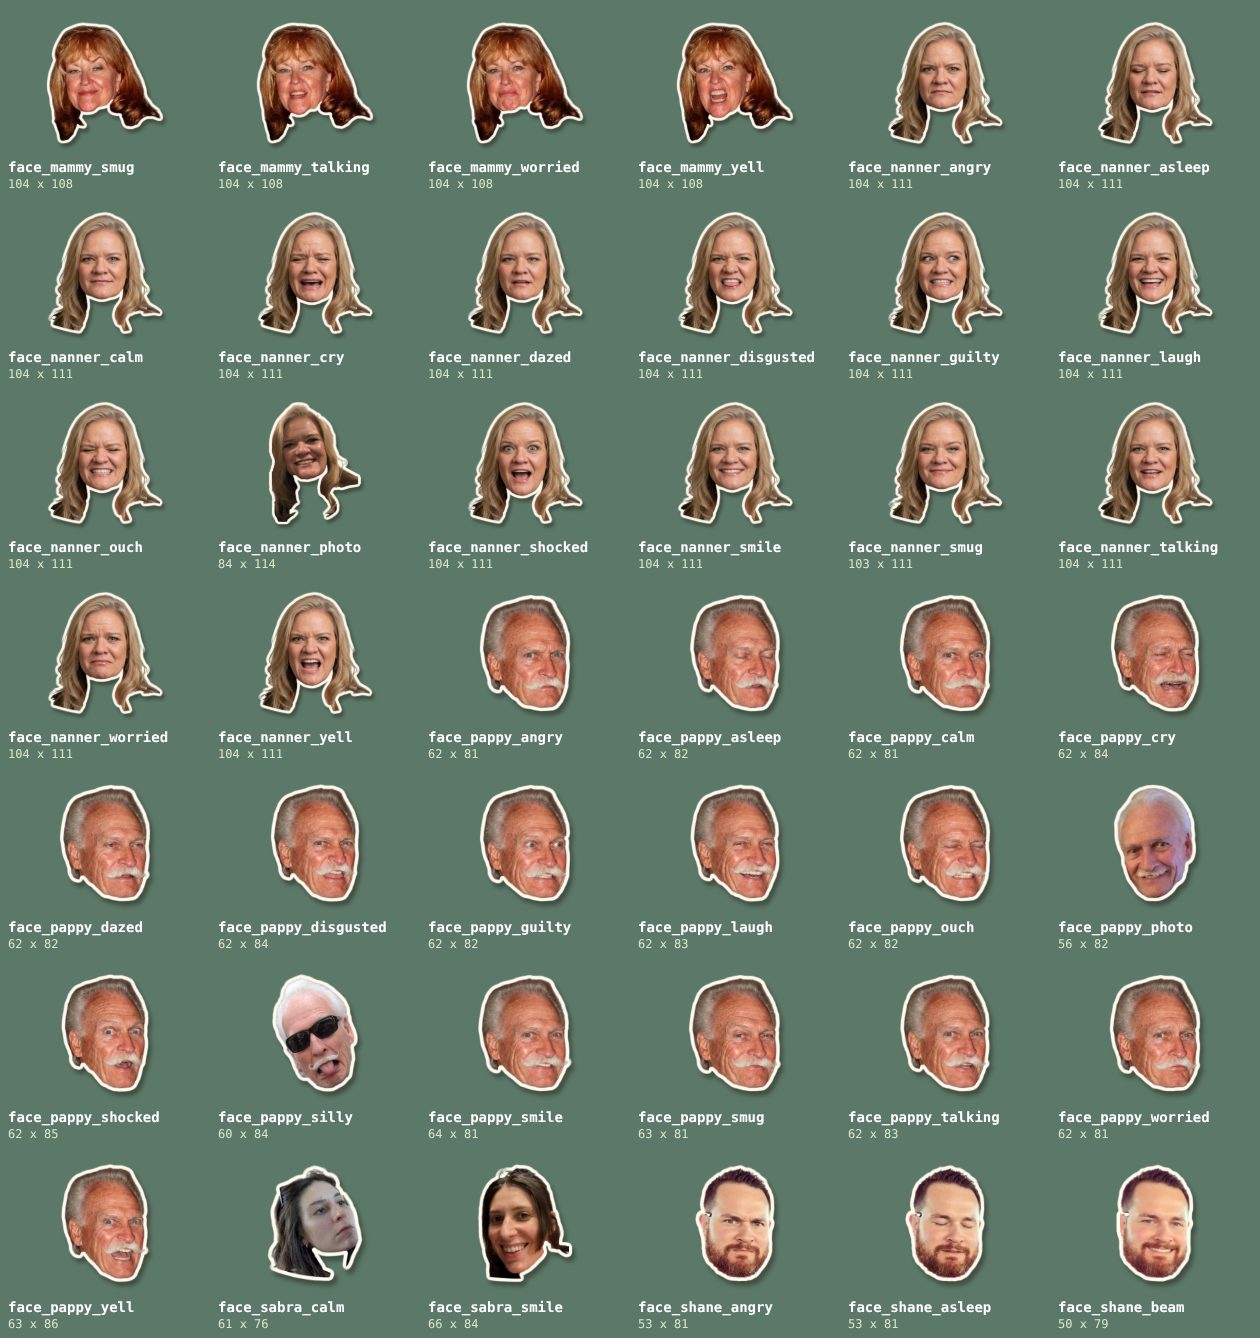
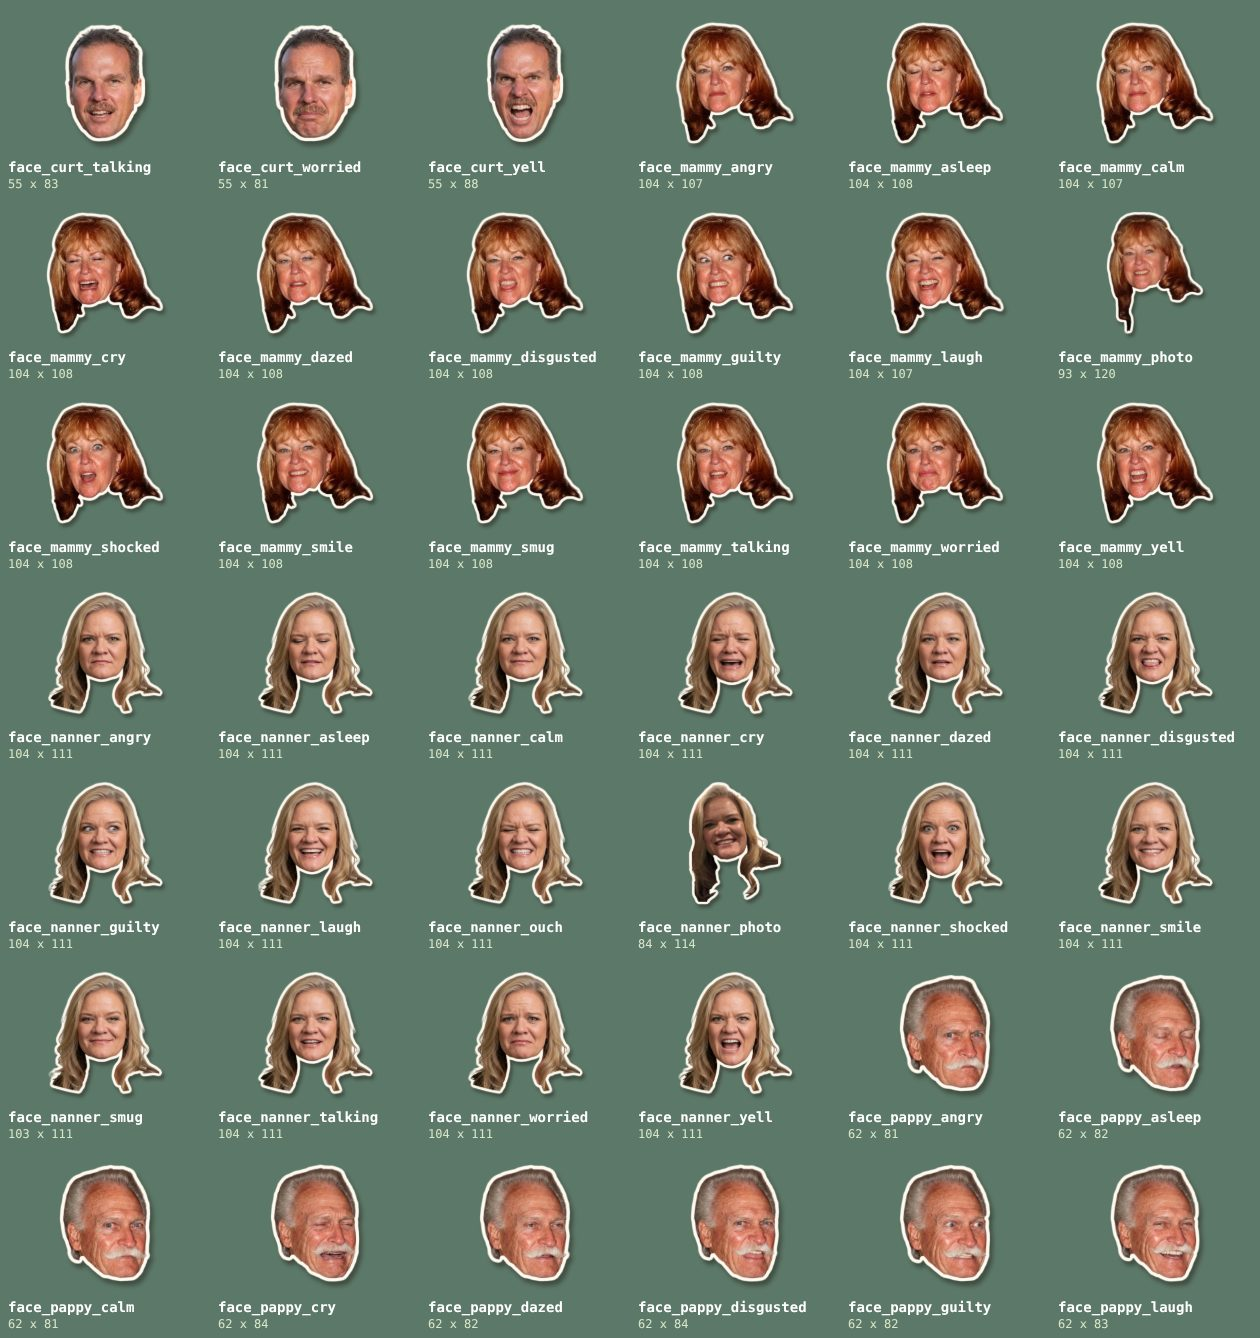
Sabra and Curt get their sets: everybody with a photo has one now
The owner's portraits and edits of them, from the Full Expression Repo in
his Drive, cut and put in everybody's faces.

- Sabra: her portrait (her smile) and thirteen edits; her calm is still the
  real photo on the train. Wisps of hair past her jaw are trimmed at the
  chin for the whole batch, and three looks Adobe left the ear out of borrow
  it from her angry.
- Curt: his portrait and thirteen edits. The owner made it from the wedding
  photo, so the set is Curt years younger, with a moustache; his laugh is
  still the real photo of him now.
- The faces cut from their real photos, which were their smiles, are kept as
  each one's own "photo".

204 faces now (176 before), 15 of the fifteen for everybody but Bill (no
laugh) and Mammy (no ouch). Picture fingerprints: 28 new, those two people's
four earlier faces a different size, nothing else touched. The whole tape
plays with no errors.

Claude-Session: https://claude.ai/code/session_019b7mfLR7ticr216Qk7ssWT

diff --git a/src/data/cast.ts b/src/data/cast.ts
@@ -201,11 +201,39 @@ export const CAST: Record<string, Record<string, CastFace>> = {
     photo: { file: 'face-nanner-photo.png', tall: 1.419, chin: [0.400, 0.639] },
   },
   curt: {
-    smile: { file: 'face-curt-smile.png', tall: 1.017, chin: [0.479, 0.991] },
-    laugh: { file: 'face-curt-laugh.png', tall: 0.953, chin: [0.491, 0.999] },
+    calm: { file: 'face-curt-calm.png', tall: 1.011, chin: [0.452, 0.994] },
+    talking: { file: 'face-curt-talking.png', tall: 1.036, chin: [0.452, 0.970] },
+    smile: { file: 'face-curt-smile.png', tall: 1.019, chin: [0.453, 0.985] },
+    laugh: { file: 'face-curt-laugh.png', tall: 1.014, chin: [0.491, 0.999] },
+    smug: { file: 'face-curt-smug.png', tall: 1.011, chin: [0.452, 0.993] },
+    angry: { file: 'face-curt-angry.png', tall: 1.017, chin: [0.451, 0.987] },
+    yell: { file: 'face-curt-yell.png', tall: 1.094, chin: [0.452, 0.917] },
+    shocked: { file: 'face-curt-shocked.png', tall: 1.083, chin: [0.452, 0.928] },
+    guilty: { file: 'face-curt-guilty.png', tall: 1.019, chin: [0.452, 0.985] },
+    worried: { file: 'face-curt-worried.png', tall: 1.011, chin: [0.452, 0.994] },
+    cry: { file: 'face-curt-cry.png', tall: 1.056, chin: [0.452, 0.953] },
+    ouch: { file: 'face-curt-ouch.png', tall: 1.022, chin: [0.452, 0.984] },
+    dazed: { file: 'face-curt-dazed.png', tall: 1.036, chin: [0.452, 0.970] },
+    disgusted: { file: 'face-curt-disgusted.png', tall: 1.058, chin: [0.452, 0.949] },
+    asleep: { file: 'face-curt-asleep.png', tall: 1.025, chin: [0.451, 0.981] },
+    photo: { file: 'face-curt-photo.png', tall: 0.997, chin: [0.479, 0.991] },
   },
   sabra: {
-    calm: { file: 'face-sabra-calm.png', tall: 0.947, chin: [0.693, 0.768] },
-    smile: { file: 'face-sabra-smile.png', tall: 1.056, chin: [0.402, 0.950] },
+    calm: { file: 'face-sabra-calm.png', tall: 1.267, chin: [0.693, 0.768] },
+    talking: { file: 'face-sabra-talking.png', tall: 1.036, chin: [0.488, 0.971] },
+    smile: { file: 'face-sabra-smile.png', tall: 1.033, chin: [0.488, 0.971] },
+    laugh: { file: 'face-sabra-laugh.png', tall: 1.036, chin: [0.487, 0.969] },
+    smug: { file: 'face-sabra-smug.png', tall: 1.036, chin: [0.488, 0.971] },
+    angry: { file: 'face-sabra-angry.png', tall: 1.036, chin: [0.487, 0.971] },
+    yell: { file: 'face-sabra-yell.png', tall: 1.061, chin: [0.496, 0.948] },
+    shocked: { file: 'face-sabra-shocked.png', tall: 1.061, chin: [0.487, 0.948] },
+    guilty: { file: 'face-sabra-guilty.png', tall: 1.036, chin: [0.488, 0.971] },
+    worried: { file: 'face-sabra-worried.png', tall: 1.036, chin: [0.488, 0.971] },
+    cry: { file: 'face-sabra-cry.png', tall: 1.039, chin: [0.487, 0.968] },
+    ouch: { file: 'face-sabra-ouch.png', tall: 1.036, chin: [0.494, 0.971] },
+    dazed: { file: 'face-sabra-dazed.png', tall: 1.036, chin: [0.488, 0.971] },
+    disgusted: { file: 'face-sabra-disgusted.png', tall: 1.036, chin: [0.495, 0.971] },
+    asleep: { file: 'face-sabra-asleep.png', tall: 1.036, chin: [0.487, 0.971] },
+    photo: { file: 'face-sabra-photo.png', tall: 1.119, chin: [0.402, 0.950] },
   },
 };

diff --git a/tools/make_cast.py b/tools/make_cast.py
@@ -120,8 +120,8 @@ PHOTOS = {
     "mammy": {"photo": {"size": 0.9}},
     "pappy": {"photo": {"seal": 0.03, "size": 0.9}, "silly": {"seal": 0.03, "size": 0.9}},
     "nanner": {"photo": {"size": 0.87}},
-    "curt": {"smile": {"base": True, "seal": 0.03}, "laugh": {"seal": 0.03}},
-    "sabra": {"smile": {"base": True, "seal": 0.03, "below": 0.05}, "calm": {"seal": 0.04, "below": 0.3}},
+    "curt": {"photo": {"seal": 0.03, "size": 1.03}, "laugh": {"seal": 0.03, "size": 1.12}},
+    "sabra": {"photo": {"seal": 0.03, "below": 0.05, "size": 0.95}, "calm": {"seal": 0.04, "below": 0.3, "size": 1.2}},
 }
 
 # What every look in a person's batch needs, where the portrait they are all edits of needs it
@@ -130,12 +130,14 @@ PHOTOS = {
 # runs down over her shoulders and ends in thin tails where her dress begins. Christian's and
 # Branson's edits are of photos in which the head is tipped and turned a little (the same far
 # eyebrow); Shorty's are of one her hair runs out of, as her photo's own face is trimmed.
+# Sabra's hair is tied back, and wisps of it hang down past her jaw on both sides.
 SETS = {
     "pappy": {"seal": 0.055, "turn": 10},
     "nanner": {"below": 0.4},
     "christian": {"seal": 0.05, "turn": 10},
     "branson": {"seal": 0.06, "turn": -6},
     "shorty": {"below": 0.27},
+    "sabra": {"below": 0.05},
 }
 
 # A look in a batch whose selection Adobe left the hair and the ears out of ("Face, Beard" where
@@ -144,6 +146,7 @@ SETS = {
 BORROW = {
     "branson": {"smug": "calm", "smile": "calm"},
     "shorty": {"guilty": "calm"},
+    "sabra": {"smile": "angry", "laugh": "angry", "shocked": "angry"},
 }
 
 # A look whose head is this near the usual place and size in its picture has the same framing.

diff --git a/tools/test/every_face.py b/tools/test/every_face.py
@@ -40,6 +40,8 @@ OWN = {
     "pappy": {"photo": "a real photo: a closed-mouth smile", "silly": "tongue out, in his sunglasses"},
     "nanner": {"photo": "the real photo her set was made from"},
     "shorty": {"pout": "a pout"},
+    "curt": {"photo": "a real photo: as he is now, smiling"},
+    "sabra": {"photo": "a real photo: smiling, in the restaurant"},
     "christian": {"gentle": "a gentle smile (2021)", "yell2": "another yell (the green T-shirt)", "dazed2": "dazed again (the green T-shirt)",
                   "worried2": "a nervous grin (the green T-shirt)"},
     "bill": {"inhale": "the breath in", "hold": "holding his breath", "sideeye": "side-eye (another photo)", "glare": "glaring down (another photo)"},

diff --git a/docs/characters.md b/docs/characters.md
@@ -144,12 +144,12 @@ name of its own from the start, and is asked for like any other:
 | Christian | `christian` | 15 (his calm, smile and laugh are real photos) | | `gentle` (a gentle smile, 2021), and three made from the photo his smile is: `yell2`, `dazed2`, `worried2` (a nervous grin) |
 | Branson | `branson` | 15 (his laugh is a real photo) | | |
 | Shorty | `shorty` | 15 (her smile is the photo itself) | | `pout` |
-| Curt | `curt` | 2: smile, laugh | the other thirteen | |
-| Sabra | `sabra` | 2: calm, smile | the other thirteen | |
+| Curt | `curt` | 15 (his laugh is a real photo of him as he is now; the rest are him at his wedding, years younger, with a moustache) | | `photo` (as he is now, smiling, on the rooftop) |
+| Sabra | `sabra` | 15 (her calm is a real photo, on the train, looking away) | | `photo` (smiling, in the restaurant) |
 
-Curt's and Sabra's faces are real photos, used as they are (the next section
-but one lists every photo and what became of it). Their sets fill up as the
-looks nobody was photographed with are generated. When a person's
+Everybody on the list has a set now. A face that is a real photo, used as it
+is, is listed in the next section but one, with every photo and what became
+of it. When a person's
 generated set comes, its "Default" is their smile, and the face cut from the
 real photo is kept as their `photo`.
 
@@ -215,6 +215,14 @@ for):
   was his smug. His dazed came as a small picture blown up, and is soft.
   Shorty's hair runs out of her photo, and so out of every edit: all are
   trimmed under the chin along one line, as her smile was.
+- **Sabra's and Curt's came on 26 November,** each a portrait ("Default")
+  and thirteen edits of it. Sabra's portrait was made from her restaurant
+  photo; Curt's from his wedding photo, the owner's choice, so his set is
+  Curt years younger and with a moustache, and his one real-photo look (his
+  laugh, from now) is another man beside the rest. A laugh made from his
+  "Default" would match; so would a calm made from Sabra's, whose calm is a
+  photo of her looking away on a train. Sabra's hair is tied back in her
+  portrait and wisps of it hang past her jaw: they are trimmed at the chin.
 - **Pappy's portrait has his head turned and tipped,** as it is in the
   Christmas photo it was made from. Every look of his is set straight by the
   same amount (`SETS` in `tools/make_cast.py`), which is also where his far
@@ -370,12 +378,12 @@ evenly lit, the biggest copy there is, nobody else in it.
 | **Mammy** | Stephanie's mother | all fifteen: she has fourteen (ouch is to come) |
 | **Pappy** | Stephanie's father | all fifteen: he has them |
 | **Nanner** | Stephanie's sister | all fifteen: she has them |
-| **Curt** | Stephanie's brother | all fifteen |
+| **Curt** | Stephanie's brother | all fifteen: he has them |
 | **Sherry** | Bill's sister | all fifteen |
 | **Christian** | Stephanie and Bill's son, and the owner. He is at the light switch in The Hot Carl, cut from paper. | all fifteen: he has them |
 | **Branson** | Stephanie and Bill's son, Christian's brother | all fifteen: he has them |
 | **Shorty** | Branson's wife | all fifteen: she has them |
-| **Sabra** | Not said yet | all fifteen, as for anybody but the three below, unless the owner says otherwise |
+| **Sabra** | Not said yet | all fifteen: she has them |
 | **Rick DeGour** | Bill's coworker | six |
 | **Cindy** | Bill's sister | six |
 | **Betty** | Bill's mother | six |
@@ -396,8 +404,8 @@ to the one person:
 | **Christian** | `christian-1` (indoors, grey T-shirt, calm: as he is now, big and sharp), `christian-2` (a green T-shirt, a broad smile), `christian-3` (on a boat, a big laugh), `christian-4` (2021, a mustard jacket, a gentle smile: Adobe cannot find the face in it, it is so washed out), `christian-5` (in profile: no use for a face) | Done: every look is an edit of `christian-1` (he is alone in it, so no base was needed). He has more in Google Photos, which Claude cannot reach: the owner copies any that are wanted into the Drive folder. |
 | **Branson** | Seven, all screenshots (a little soft) and every one a smile or a laugh. `branson-1` (on a street, a patterned shirt: the biggest), `branson-2` (a maroon T-shirt, laughing), `branson-3` (in a dinner jacket: square to the camera but small), `branson-4` (younger, with somebody else) | Done: every look is an edit of `branson-1`. |
 | **Shorty** | `shorty-1` (outdoors, a denim jacket, smiling: big and sharp, but her hair runs off the left and the bottom of the picture, and somebody else is at its edge), a studio portrait (head turned well away, lighter hair) and a small cut-out of her pulling a face (`shorty-3`) | Done: every look is an edit of `shorty-1` itself (no base was made, so her hair is trimmed where the picture ends). |
-| **Sabra** | Four. Close up in a restaurant, a wide smile (`sabra-3`); on a train, looking at her phone (`sabra-4`); looking back over her shoulder, small and soft (`sabra-1`); in profile (`sabra-2`) | `sabra-3`, by way of a base (it is dim, and her hair runs out of it) |
-| **Curt** | Five, all with Kim. On a rooftop, square to the camera and evenly lit (`curt-1`: the owner's "good lighting"); a close selfie, a broad grin, sunglasses on his head (`curt-2`: "accurate"); in a sun hat; and two from years ago | `curt-1`, by way of a base |
+| **Sabra** | Four. Close up in a restaurant, a wide smile (`sabra-3`); on a train, looking at her phone (`sabra-4`); looking back over her shoulder, small and soft (`sabra-1`); in profile (`sabra-2`) | Done: the owner made her portrait from `sabra-3`. |
+| **Curt** | Five, all with Kim. On a rooftop, square to the camera and evenly lit (`curt-1`: the owner's "good lighting"); a close selfie, a broad grin, sunglasses on his head (`curt-2`: "accurate"); in a sun hat; and two from years ago | Done: the owner made his portrait from the wedding photo (years younger, with a moustache), not from `curt-1`. |
 | **Sheeba** | Four pictures in the Drive folder "Sheeba", of a white German shepherd: sitting by a lake, lying on a couch, asleep on a rug, standing in a studio. There is no photo of Sheeba herself: these are found pictures of dogs close to her (the owner's word; one has a photographer's mark on it). | Not for cutting out: she is generated from a description of them. |
 | **Roger** | Five. Sitting on a step with his tongue out (`roger-1`: sharp and big), sitting by a Christmas tree (`roger-2`), lying on an ottoman (`roger-3`, cropped out of a phone screenshot), and two that had been cut out or touched up already (`roger-4`, `roger-5`) | All five cut whole, as they are. |
 | **The Grump** | Four, all small. At his dish, in profile (`grump-1`), in somebody's arms, looking at the camera (`grump-2`), curled up asleep on his back (`grump-3`), held upright (`grump-4`: soft) | All four cut whole, as they are. |
@@ -420,8 +428,8 @@ each of them). Every look is then an edit of the base, not of the photo:
 that is how Chad's and Shane's were done, and why each of their sets
 matches. The base is that person's smile. (Mammy's, Pappy's and Nanner's are
 made: each is "Default" in that person's folder of the Full Expression
-Repo. Curt's and Sabra's are to come. Shorty's looks were made from her
-photo as it is.)
+Repo, as Curt's and Sabra's are. Shorty's looks were made from her photo as
+it is.)
 
 One of each person's faces will be the photo itself (a smile, usually), so
 there are fourteen to make of fifteen, and five of six. Those who get the
@@ -539,17 +547,17 @@ sets: Chad's yell, cry and calm, Shane's startled, cry and doe eyes.)
 
 | Photo | What it shows | What became of it |
 | --- | --- | --- |
-| "good lighting" (`curt-1`) | Smiling, on a rooftop | His base: **smile** |
+| "good lighting" (`curt-1`) | Smiling, on a rooftop | **photo** (his own: Curt as he is now) |
 | "accurate" (`curt-2`) | A broad open grin, sunglasses up on his head | **laugh** |
 | "hat" | A grin under a sun hat | Not cut: another smile, and the hat |
-| "wedding" | Years younger, a moustache | Not used: another age, and small |
+| "wedding" | Years younger, a moustache, in a suit with a rose | **His base:** the owner made his portrait from it, and every look of his but the laugh is an edit of that |
 | "Curt and Kim" | Shaved head, a closed-mouth smile | Not used: 90 pixels |
 
 **Sabra** (4)
 
 | Photo | What it shows | What became of it |
 | --- | --- | --- |
-| `sabra-3` (…5824) | A wide smile, close up, in a restaurant | Her base: **smile** |
+| `sabra-3` (…5824) | A wide smile, close up, in a restaurant | Her base: her portrait and every look but calm are made from it, and its own face is her **photo** |
 | `sabra-4` (…5726) | On a train, looking at her phone, mouth shut | **calm** |
 | `sabra-1` (…4296) | Smiling back over her shoulder | Not cut: another smile, small and soft |
 | `sabra-2` (…6146) | In profile, in a café | Not used: a profile |
@@ -624,13 +632,13 @@ photo so that it matches the rest:
 | Chad | | calm, yell, cry (his are from the earlier pictures: the same photo, framed closer) |
 | Shane | | cry (his is from the earlier pictures) |
 | Mammy | ouch | the thirteen that came small, if there are full-size copies |
+| Curt | | laugh (his is a photo of him as he is now; the rest are him years younger) |
+| Sabra | | calm (hers is a photo of her looking away) |
 
 (The faces that are a person's own, like the doe eyes, are not on this
 list: nobody else is getting those for now.)
 | Sherry | all fifteen, less the one the photo is, once there is a photo | |
 | Branson | | dazed (his came small, and is soft) |
-| Curt | the base, and calm, talking, smug, angry, yell, shocked, guilty, worried, cry, ouch, dazed, disgusted, asleep | |
-| Sabra | the base, and talking, laugh, smug, angry, yell, shocked, guilty, worried, cry, ouch, dazed, disgusted, asleep | |
 | Rick DeGour, Cindy, Betty | calm, smile, laugh, angry, shocked, cry, less the one the photo is | |
 | Stephanie, Chad, Shane, Mammy, Pappy, Nanner, Curt, Sherry, Christian, Branson | the back of the head: waiting (see "The looks") | |
 

diff --git a/docs/catalogue/README.md b/docs/catalogue/README.md
@@ -9,7 +9,7 @@ The size is how big the picture is drawn, in the game's own pixels (the page is 
 - [Cars](#cars) (22)
 - [People: bodies](#bodies) (77)
 - [People: faces](#faces) (32)
-- [People: everybody's faces](#cast) (176)
+- [People: everybody's faces](#cast) (204)
 - [The rubberneckers, and the animals](#gawkers) (51)
 - [Effects](#effects) (25)
 - [Words on bursts](#words) (51)
@@ -399,8 +399,22 @@ One set for each of the family, every look the same size and hung from the same 
 | `face_christian_worried2` | 52 x 84 |  | `src/assets/scrap/face-christian-worried2.webp` |
 | `face_christian_yell` | 52 x 86 |  | `src/assets/scrap/face-christian-yell.webp` |
 | `face_christian_yell2` | 52 x 89 |  | `src/assets/scrap/face-christian-yell2.webp` |
-| `face_curt_laugh` | 57 x 76 |  | `src/assets/scrap/face-curt-laugh.webp` |
-| `face_curt_smile` | 61 x 81 |  | `src/assets/scrap/face-curt-smile.webp` |
+| `face_curt_angry` | 55 x 81 |  | `src/assets/scrap/face-curt-angry.webp` |
+| `face_curt_asleep` | 55 x 82 |  | `src/assets/scrap/face-curt-asleep.webp` |
+| `face_curt_calm` | 55 x 81 |  | `src/assets/scrap/face-curt-calm.webp` |
+| `face_curt_cry` | 55 x 84 |  | `src/assets/scrap/face-curt-cry.webp` |
+| `face_curt_dazed` | 55 x 83 |  | `src/assets/scrap/face-curt-dazed.webp` |
+| `face_curt_disgusted` | 55 x 85 |  | `src/assets/scrap/face-curt-disgusted.webp` |
+| `face_curt_guilty` | 55 x 82 |  | `src/assets/scrap/face-curt-guilty.webp` |
+| `face_curt_laugh` | 61 x 81 |  | `src/assets/scrap/face-curt-laugh.webp` |
+| `face_curt_ouch` | 55 x 82 |  | `src/assets/scrap/face-curt-ouch.webp` |
+| `face_curt_photo` | 60 x 80 |  | `src/assets/scrap/face-curt-photo.webp` |
+| `face_curt_shocked` | 55 x 87 |  | `src/assets/scrap/face-curt-shocked.webp` |
+| `face_curt_smile` | 55 x 82 |  | `src/assets/scrap/face-curt-smile.webp` |
+| `face_curt_smug` | 55 x 81 |  | `src/assets/scrap/face-curt-smug.webp` |
+| `face_curt_talking` | 55 x 83 |  | `src/assets/scrap/face-curt-talking.webp` |
+| `face_curt_worried` | 55 x 81 |  | `src/assets/scrap/face-curt-worried.webp` |
+| `face_curt_yell` | 55 x 88 |  | `src/assets/scrap/face-curt-yell.webp` |
 | `face_mammy_angry` | 104 x 107 |  | `src/assets/scrap/face-mammy-angry.webp` |
 | `face_mammy_asleep` | 104 x 108 |  | `src/assets/scrap/face-mammy-asleep.webp` |
 | `face_mammy_calm` | 104 x 107 |  | `src/assets/scrap/face-mammy-calm.webp` |
@@ -449,8 +463,22 @@ One set for each of the family, every look the same size and hung from the same 
 | `face_pappy_talking` | 62 x 83 |  | `src/assets/scrap/face-pappy-talking.webp` |
 | `face_pappy_worried` | 62 x 81 |  | `src/assets/scrap/face-pappy-worried.webp` |
 | `face_pappy_yell` | 63 x 86 |  | `src/assets/scrap/face-pappy-yell.webp` |
-| `face_sabra_calm` | 61 x 76 |  | `src/assets/scrap/face-sabra-calm.webp` |
-| `face_sabra_smile` | 66 x 84 |  | `src/assets/scrap/face-sabra-smile.webp` |
+| `face_sabra_angry` | 65 x 83 |  | `src/assets/scrap/face-sabra-angry.webp` |
+| `face_sabra_asleep` | 65 x 83 |  | `src/assets/scrap/face-sabra-asleep.webp` |
+| `face_sabra_calm` | 82 x 101 |  | `src/assets/scrap/face-sabra-calm.webp` |
+| `face_sabra_cry` | 65 x 83 |  | `src/assets/scrap/face-sabra-cry.webp` |
+| `face_sabra_dazed` | 65 x 83 |  | `src/assets/scrap/face-sabra-dazed.webp` |
+| `face_sabra_disgusted` | 66 x 83 |  | `src/assets/scrap/face-sabra-disgusted.webp` |
+| `face_sabra_guilty` | 65 x 83 |  | `src/assets/scrap/face-sabra-guilty.webp` |
+| `face_sabra_laugh` | 65 x 83 |  | `src/assets/scrap/face-sabra-laugh.webp` |
+| `face_sabra_ouch` | 66 x 83 |  | `src/assets/scrap/face-sabra-ouch.webp` |
+| `face_sabra_photo` | 70 x 90 |  | `src/assets/scrap/face-sabra-photo.webp` |
+| `face_sabra_shocked` | 65 x 85 |  | `src/assets/scrap/face-sabra-shocked.webp` |
+| `face_sabra_smile` | 65 x 83 |  | `src/assets/scrap/face-sabra-smile.webp` |
+| `face_sabra_smug` | 65 x 83 |  | `src/assets/scrap/face-sabra-smug.webp` |
+| `face_sabra_talking` | 65 x 83 |  | `src/assets/scrap/face-sabra-talking.webp` |
+| `face_sabra_worried` | 65 x 83 |  | `src/assets/scrap/face-sabra-worried.webp` |
+| `face_sabra_yell` | 66 x 85 |  | `src/assets/scrap/face-sabra-yell.webp` |
 | `face_shane_angry` | 53 x 81 |  | `src/assets/scrap/face-shane-angry.webp` |
 | `face_shane_asleep` | 53 x 81 |  | `src/assets/scrap/face-shane-asleep.webp` |
 | `face_shane_beam` | 50 x 79 |  | `src/assets/scrap/face-shane-beam.webp` |

diff --git a/docs/pictures.md b/docs/pictures.md
@@ -26,8 +26,8 @@ the repository.
 
 | | Where | What it is |
 | --- | --- | --- |
-| **The finished cutouts** | `src/assets/scrap` (391 files), and Bill's four everyday heads in `src/assets/bill`. A game with a folder of its own keeps its own in `src/minis/<id>/assets`. | What the game loads: each piece by itself, background gone, trimmed to its edges, heads taken off bodies, at the size it is drawn. **These are the ones to use**, and a game uses one by its name, not its file: the catalogue gives both. |
-| **Adobe's cutouts** | `art-src/adobe` (155 files): `...-cutout.png` is a whole picture with its background gone, and `...-headmask.png` (`-facemask`, `-handmask`, `-batmask`) is what Adobe selected in it. Everybody's faces are in `art-src/cast/<who>` (370 files), the same two for each look. | Full size, exactly as Adobe gave them back. For when a finished piece is not enough: a bigger copy for a close-up, or a piece cut a different way. Nothing has to go back to Adobe for that. |
+| **The finished cutouts** | `src/assets/scrap` (419 files), and Bill's four everyday heads in `src/assets/bill`. A game with a folder of its own keeps its own in `src/minis/<id>/assets`. | What the game loads: each piece by itself, background gone, trimmed to its edges, heads taken off bodies, at the size it is drawn. **These are the ones to use**, and a game uses one by its name, not its file: the catalogue gives both. |
+| **Adobe's cutouts** | `art-src/adobe` (155 files): `...-cutout.png` is a whole picture with its background gone, and `...-headmask.png` (`-facemask`, `-handmask`, `-batmask`) is what Adobe selected in it. Everybody's faces are in `art-src/cast/<who>` (440 files), the same two for each look. | Full size, exactly as Adobe gave them back. For when a finished piece is not enough: a bigger copy for a close-up, or a piece cut a different way. Nothing has to go back to Adobe for that. |
 | **The pictures they were cut from** | `art-src/generated` (what the owner generated) and `art-src/photos` (the family's photos) | The originals. |
 
 `tools/make_cutouts.py` makes the first layer from the other two, and can
